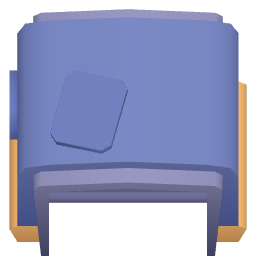
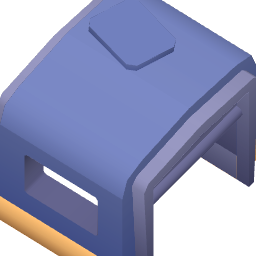
Tunnel mouths face the track; drop the contact shadow under the train
- No more dark patch under the train: removed the contact shadow from the loco,
  wagons and mover so they sit flush on the floor ("as 1 as the floor"). Tiles
  (rock, tunnel) keep a faint grounding shadow.

- Tunnel openings now face where the train goes in and out. The machine is re-baked
  at a 3/4 angle with its opening clearly visible (facing West); drawTunnel then
  turns it to the cell's open edge — mirrored for an East mouth (stays upright) and
  quarter-turned for N/S. So a pair on a horizontal line has the entry mouth facing
  the incoming train and the exit mouth facing the way out.

drawTunnel now owns the sprite (mirror/rotate), so tileSpriteFor defers tunnels to
it. 66 self-tests + 52 level tests pass.

diff --git a/src/render.ts b/src/render.ts
@@ -713,7 +713,7 @@ export class Renderer {
       case 'rock': this.drawRock(c.x, c.y); break;
       case 'exit': this.drawExit(c.x, c.y); break;
       case 'start': this.drawStartPad(c.x, c.y); break;
-      case 'tunnel': this.drawTunnel(c.x, c.y); break;
+      case 'tunnel': this.drawTunnel(c); break;
       case 'button': this.drawButton(c); break;
       case 'switch': this.drawSwitch(c); break;
       case 'gate': {
@@ -738,10 +738,8 @@ export class Renderer {
       case 'start': return { name: 'tile_start', rot: 0, shadow: false };
       // buttons are drawn by drawButton (colour-tinted small vs neutral master)
       case 'switch': return { name: 'tile_switch', rot: 0, shadow: false };
-      case 'tunnel': {
-        const mouth = edgeList(c.mask)[0] ?? 'E';
-        return { name: 'tile_tunnel', rot: this.headingAngle(mouth), shadow: true };
-      }
+      case 'tunnel':
+        return null; // drawTunnel mirrors/rotates the machine so its mouth faces the track
       case 'gate':
         return null; // drawGate renders the link-colour-recoloured barrier sprite
       case 'signal': {
@@ -982,9 +980,33 @@ export class Renderer {
     ctx.restore();
   }
 
-  private drawTunnel(x: number, y: number): void {
+  /**
+   * A tunnel = the machine model. Baked with its opening facing West, so the
+   * mouth is turned to the cell's open edge: mirrored for an East mouth (keeps it
+   * upright) and quarter-turned for N/S. The train then visibly enters/leaves
+   * through the opening.
+   */
+  private drawTunnel(c: Cell): void {
     const ctx = this.ctx;
-    const { left, top, size } = this.cellRect(x, y);
+    const { left, top, size } = this.cellRect(c.x, c.y);
+    const cx = left + size / 2;
+    const cy = top + size / 2;
+    if (this.assets && this.assets.has('tile_tunnel')) {
+      const mouth = edgeList(c.mask)[0] ?? 'W';
+      this.contactShadow(cx, cy, size);
+      ctx.save();
+      ctx.translate(cx, cy);
+      switch (mouth) {
+        case 'W': break; // baked orientation
+        case 'E': ctx.scale(-1, 1); break; // mirror, stays upright
+        case 'S': ctx.rotate(Math.PI / 2); break;
+        case 'N': ctx.rotate(-Math.PI / 2); break;
+      }
+      this.assets.draw(ctx, 'tile_tunnel', 0, 0, size * 0.98, size * 0.98);
+      ctx.restore();
+      return;
+    }
+    // Procedural fallback: a rounded portal with a dark mouth.
     ctx.save();
     ctx.fillStyle = PAL.rock;
     this.roundRect(left + size * 0.12, top + size * 0.12, size * 0.76, size * 0.76, size * 0.3);
@@ -1008,7 +1030,6 @@ export class Renderer {
     const { left, top, size } = this.cellRect(x, y);
     const cx = left + size / 2;
     const cy = top + size / 2;
-    this.contactShadow(cx, cy, size);
     if (this.assets?.has('loco')) {
       this.assets.draw(ctx, 'loco', cx, cy, size * 0.92, size * 0.92, this.headingAngle(h));
       return;
@@ -1048,7 +1069,6 @@ export class Renderer {
     const cx = left + size / 2;
     const cy = top + size / 2;
     const w = size * 0.66;
-    this.contactShadow(cx, cy, size);
     // A single wagon sprite serves every number — the digit is drawn on top.
     if (this.assets?.has('wagon')) {
       this.assets.draw(ctx, 'wagon', cx, cy, size * 0.86, size * 0.86, 0);
@@ -1081,7 +1101,6 @@ export class Renderer {
     const { left, top, size } = this.cellRect(x, y);
     const cx = left + size / 2;
     const cy = top + size / 2;
-    this.contactShadow(cx, cy, size);
     if (this.assets?.has('mover')) {
       this.assets.draw(ctx, 'mover', cx, cy, size * 0.78, size * 0.78, this.headingAngle(h));
       return;